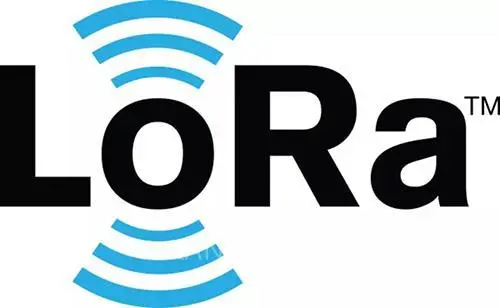
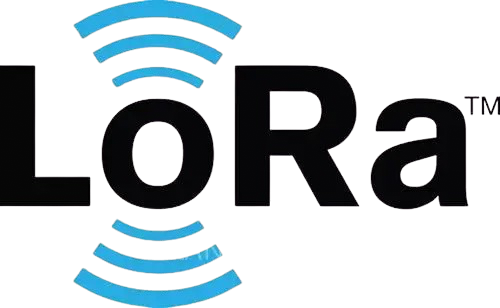
bg remove

diff --git a/index.html b/index.html
@@ -13,7 +13,7 @@
 
 </head>
 
-<body>
+<body style="background-color: rgba(220, 220, 220, 0.174);">
   <table
     style="width:100%;max-width:800px;border:0px;border-spacing:0px;border-collapse:separate;margin-right:auto;margin-left:auto;">
     <tbody>
